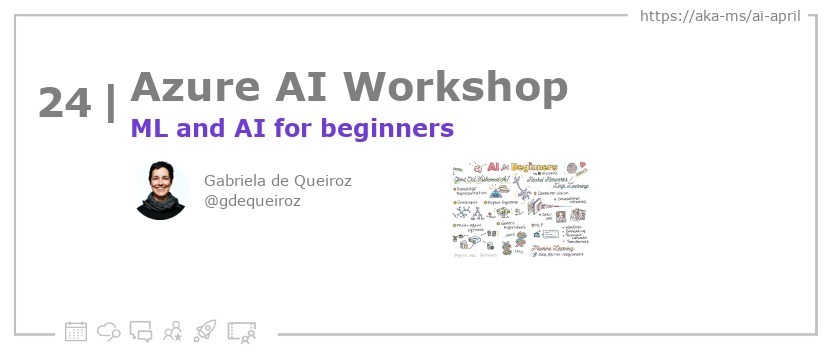
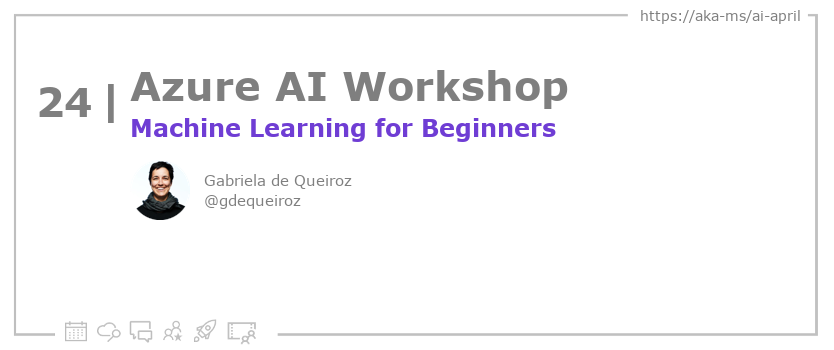
docs

Changed region(s): [[0.53, 0.4571, 0.717, 0.7429], [0.1871, 0.3429, 0.6859, 0.4]]

diff --git a/website/blog/2023-aia/2023-04-26-ml-ai-workshops/index.md b/website/blog/2023-aia/2023-04-26-ml-ai-workshops/index.md
@@ -1,35 +1,35 @@
 ---
 slug: 2023-day24
-title: "24. 🏭ML and AI for beginners"
+title: "24. 🏭Machine Learning for Beginners"
 authors: ['Gabriela']
 draft: false
 hide_table_of_contents: false
 toc_min_heading_level: 2
 toc_max_heading_level: 3
-keywords: ['AI_Beginners']
+keywords: ['ML_Beginners']
 tags: ['ai-april', '30-days-of-azure-ai', 'ml-developers', 'workshop']
 
 image: "https://azureaidevs.github.io/hub/img/2023/banner-day24.png"
-description: "learn about the ML and AI for beginner workshops https://azureaidevs.github.io/hub/blog/2023-day24 #30DaysOfAzureAI #AzureAiDevs #AI #MachineLearning"
+description: "Learn about the Microsoft Machine Learning for Beginners Curriculum https://azureaidevs.github.io/hub/blog/2023-day24 #30DaysOfAzureAI #AzureAiDevs #AI #MachineLearning"
 ---
 
 <head>
 
   <meta property="og:url" content="https://azureaidevs.github.io/hub/blog/2023-day24" />
-  <meta property="og:title" content="ML and AI for beginners" />
-  <meta property="og:description" content="learn about the ML and AI for beginner workshops https://azureaidevs.github.io/hub/blog/2023-day24 #30DaysOfAzureAI #AzureAiDevs #AI #MachineLearning" />
+  <meta property="og:title" content="Machine Learning for Beginners" />
+  <meta property="og:description" content="Learn about the Microsoft Machine Learning for Beginners Curriculum https://azureaidevs.github.io/hub/blog/2023-day24 #30DaysOfAzureAI #AzureAiDevs #AI #MachineLearning" />
   <meta property="og:image" content="https://azureaidevs.github.io/hub/img/2023/banner-day24.png" />
   <meta property="og:type" content="article" />
   <meta property="og:site_name" content="Azure AI Developer" />
   
 
-  <link rel="canonical" href="https://github.com/microsoft/ML-For-Beginners"  />
+  <link rel="canonical" href="https://microsoft.github.io/ML-For-Beginners/"  />
 
 </head>
 
 - 📧 [Sign up for the Azure AI Developer Newsletter](https://aka.ms/azure-ai-dev-newsletter)
 - 📰 [Subscribe to the #30DaysOfAzureAI RSS feed](https://azureaidevs.github.io/hub/blog/rss.xml)
-- 📌 [Ask a question about this post on GitHub Discussions](https://github.com/AzureAiDevs/hub/discussions/categories/24-ml-and-ai-for-beginners)
+- 📌 [Ask a question about this post on GitHub Discussions](https://github.com/AzureAiDevs/hub/discussions/categories/24-machine-learning-for-beginners)
 - 💡 [Suggest a topic for a future post](https://github.com/AzureAiDevs/hub/discussions/categories/call-for-content)
 
 ## Day _24_ of #30DaysOfAzureAI
@@ -39,13 +39,13 @@ The following description is also used for the tweet. So it should be action ori
 If you update the description, please update the description: in the frontmatter as well.
 -->
 
-**learn about the ML and AI for beginner workshops**
+**Learn about the Microsoft Machine Learning for Beginners Curriculum**
 
 <!-- README
 The following is the intro to the post. It should be a short teaser for the post.
 -->
 
-
+Yesterday we learned about Data Science for Beginners Curriculum. Today is for folk starting their ML journey. The Machine Learning for Beginners Curriculum is a 12-week, 26-lesson course, so let's dive in!
 
 ## What we'll cover
 
@@ -85,9 +85,9 @@ See the Learn More section, if you supplied a canonical link, then will be displ
 
 ## Learn More
 
-To learn more, check out this [article](https://github.com/microsoft/ML-For-Beginners).
+To learn more, check out this [article](https://microsoft.github.io/ML-For-Beginners/).
 
 
 ## Questions?
 
-[Remember, you can ask a question about this post on GitHub Discussions](https://github.com/AzureAiDevs/Discussions/discussions/categories/24-ml-and-ai-for-beginners)
+[Remember, you can ask a question about this post on GitHub Discussions](https://github.com/AzureAiDevs/Discussions/discussions/categories/24-machine-learning-for-beginners)

diff --git a/website/blog/2023-aia/2023-04-25-data-science-beginners/index.md b/website/blog/2023-aia/2023-04-25-data-science-beginners/index.md
@@ -45,7 +45,7 @@ If you update the description, please update the description: in the frontmatter
 The following is the intro to the post. It should be a short teaser for the post.
 -->
 
-Yesterday we learned about the Azure MLOps (v2) Solution Accelerator. Today is for folk starting on their Data Science journey. Data Science for Beginners is a 10-week, 20-lesson course, so dive in!
+Yesterday we learned about the Azure MLOps (v2) Solution Accelerator. Today is for folk starting on their Data Science journey. Data Science for Beginners Curriculum is a 10-week, 20-lesson course, so dive in!
 
 ## What we'll cover
 
